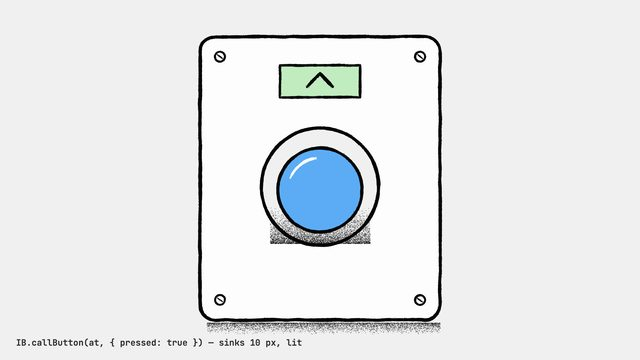
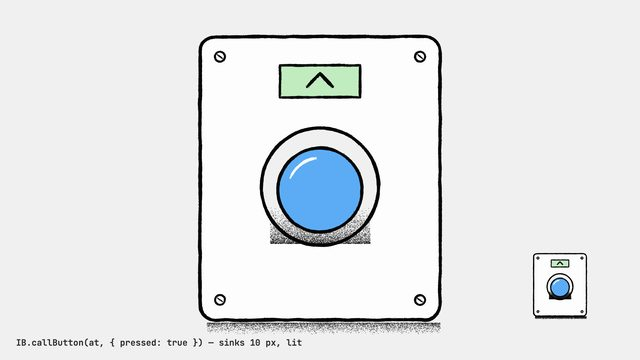
feat: 호출 버튼을 와이드 크기로 줄여 쓰는 opts.s (#54)
조립 시험(#50)에서 모자랐던 부품이다. 초인종 장면은 인서트 크기 버튼을 컨텍스트째 0.22배로 줄여 써서, 선이 9 px에서 2 px로 가늘어졌다.
- IB.callButton이 opts.s를 받는다. at을 중심으로 줄이고, 선은 같이 가늘어지되 인서트 선의 0.35배(와이드 샷의 3 px) 아래로는 내려가지 않는다.
- s = 1(기본)이면 그림이 그대로다. variation/hall-whip-button이 same_frames로 1/1 같은 프레임이다.
- vignette/parcel-rings-doorbell이 opts.s를 쓴다. 버튼 선이 문틀과 같은 3 px가 된다.
- 견본 props/home-button에 줄인 버튼을 함께 보인다.

확인: 초인종 4.6 s 확대, 견본 렌더, check_pure 2/2.

Claude-Session: https://claude.ai/code/session_01SxpfC2T1LyEk5ytvqY9P1D

Changed region(s): [[0.8125, 0.7028, 0.9375, 0.8861]]

diff --git a/IBM/kit/props/home.js b/IBM/kit/props/home.js
@@ -137,23 +137,23 @@
     ctx.restore();
   };
 
-  /* callButton(ctx, at, state, opts) — a lift call button at insert size, filling the frame: a plate with rounded corners and four screws, an indicator arrow above, and a round button 352 px across whose cap sinks 10 px when pressed. `at` is the button's centre. state.pressed sinks the cap; state.lit turns the cap blue and the indicator mint (they light together). Lines 7-9 px, as an insert's are (variation/hall-whip-button). */
+  /* callButton(ctx, at, state, opts) — a lift call button at insert size, filling the frame: a plate with rounded corners and four screws, an indicator arrow above, and a round button 352 px across whose cap sinks 10 px when pressed. `at` is the button's centre. state.pressed sinks the cap; state.lit turns the cap blue and the indicator mint (they light together). Lines 7-9 px, as an insert's are (variation/hall-whip-button). opts.s scales it about `at` for a wider shot (0.22: a doorbell beside a door, vignette/parcel-rings-doorbell); its lines then thin with it but never below 0.35 of the insert's, so they stay a wide shot's 3 px. */
   const BUTTON_AT = [860, 560];
   IB.callButton = (ctx, at, st = {}, o = {}) => {
-    const { pressed = false, lit = pressed } = st;
-    ctx.save(); ctx.translate(at[0] - BUTTON_AT[0], at[1] - BUTTON_AT[1]);
+    const { pressed = false, lit = pressed } = st, { s: S = 1 } = o, k = Math.max(1, 0.35 / S);   // scaled down, the lines thin with it but not below 0.35 of the insert's (a wide shot's weight)
+    ctx.save(); ctx.translate(at[0], at[1]); ctx.scale(S, S); ctx.translate(-BUTTON_AT[0], -BUTTON_AT[1]);
     IB.shade(ctx, 520, 968, 700, 34, { from: 'top', seed: 51, alpha: 0.5 });
-    IB.ink(ctx, [[1176, 154, 0], [544, 154, 1], [544, 916, 2], [1176, 916, 3]].flatMap(([x, y, q]) => IB.ellipse(x, y, 44, 44, 5, -q * Math.PI / 2, -(q + 1) * Math.PI / 2)), { closed: true, smooth: false, fill: C.paper, w: 9, seed: 500, wob: 1.2 });   // a plate with rounded corners
-    for (const [x, y] of [[560, 170], [1160, 170], [560, 900], [1160, 900]]) { IB.oval(ctx, x, y, 15, 15, { w: 5, seed: 510 + x + y, n: 9 }); IB.seg(ctx, x - 8, y - 6, x + 8, y + 6, { w: 4, seed: 511 + x + y }); }
+    IB.ink(ctx, [[1176, 154, 0], [544, 154, 1], [544, 916, 2], [1176, 916, 3]].flatMap(([x, y, q]) => IB.ellipse(x, y, 44, 44, 5, -q * Math.PI / 2, -(q + 1) * Math.PI / 2)), { closed: true, smooth: false, fill: C.paper, w: 9 * k, seed: 500, wob: 1.2 });   // a plate with rounded corners
+    for (const [x, y] of [[560, 170], [1160, 170], [560, 900], [1160, 900]]) { IB.oval(ctx, x, y, 15, 15, { w: 5 * k, seed: 510 + x + y, n: 9 }); IB.seg(ctx, x - 8, y - 6, x + 8, y + 6, { w: 4 * k, seed: 511 + x + y }); }
     // the indicator above the button: an arrow that lights with it
-    IB.box(ctx, 740, 196, 240, 96, { fill: lit ? C.mint : C.bg, w: 7, seed: 520 });
-    IB.ink(ctx, [[820, 262], [860, 220], [900, 262]], { w: 9, smooth: false, seed: 521 });
+    IB.box(ctx, 740, 196, 240, 96, { fill: lit ? C.mint : C.bg, w: 7 * k, seed: 520 });
+    IB.ink(ctx, [[820, 262], [860, 220], [900, 262]], { w: 9 * k, smooth: false, seed: 521 });
     // the button: a collar, and a cap that sinks when pressed
-    IB.oval(ctx, 860, 560, 176, 176, { fill: C.bg, w: 9, seed: 530, n: 22 });
+    IB.oval(ctx, 860, 560, 176, 176, { fill: C.bg, w: 9 * k, seed: 530, n: 22 });
     IB.shade(ctx, 860 - 150, 560 + 60, 300, 110, { from: 'bottom', seed: 53, alpha: 0.5 });
     const sink = pressed ? 10 : 0;
-    IB.oval(ctx, 860, 560 + sink, 132 - sink * 0.6, 132 - sink * 0.6, { fill: lit ? C.blue : C.paper, w: 8, seed: 531, n: 20 });
-    IB.ink(ctx, IB.ellipse(860, 560 + sink, 96, 96, 7, 3.5, 4.6), { w: 7, color: lit ? C.paper : '#d9d9d9', seed: 532 });
+    IB.oval(ctx, 860, 560 + sink, 132 - sink * 0.6, 132 - sink * 0.6, { fill: lit ? C.blue : C.paper, w: 8 * k, seed: 531, n: 20 });
+    IB.ink(ctx, IB.ellipse(860, 560 + sink, 96, 96, 7, 3.5, 4.6), { w: 7 * k, color: lit ? C.paper : '#d9d9d9', seed: 532 });
     ctx.restore();
   };
 })(window);

diff --git a/IBM/scenes/vignette/parcel-rings-doorbell.html b/IBM/scenes/vignette/parcel-rings-doorbell.html
@@ -12,7 +12,7 @@
 <script src="../../kit/props/nature.js"></script>
 <script src="../../kit/props/home.js"></script>
 <script>
-/* 택배 상자가 다리로 걸어 와 문 옆에 서서 초인종을 올려다보고, 뛰어올라 보지만 한 뼘이 모자라 쿵 떨어지고, 발을 동동 구른 뒤 더 깊이 웅크렸다 뛰어 머리(테이프 붙은 윗면)로 버튼을 누른다. 버튼에 불이 들어오면 "배달 왔어요!" 하고 기다린다. 원본에 없는 창작 장면이자 부품 시트의 조립 시험(계획 5단계)으로, 다섯 장면에서 온 부품만으로 지었다: 걷고 뛰는 상자(metaphor/parcels-board-conveyor), 문·액자·화분(acting/walk-cycle-bag), 호출 버튼(variation/hall-whip-button, 인서트 크기를 0.22배로 줄여 벽에 붙임), 쿵(acting/lift-heavy-box), 말풍선. 전달하는 생각: 한 번 실패한 뒤의 준비는 더 깊다.
+/* 택배 상자가 다리로 걸어 와 문 옆에 서서 초인종을 올려다보고, 뛰어올라 보지만 한 뼘이 모자라 쿵 떨어지고, 발을 동동 구른 뒤 더 깊이 웅크렸다 뛰어 머리(테이프 붙은 윗면)로 버튼을 누른다. 버튼에 불이 들어오면 "배달 왔어요!" 하고 기다린다. 원본에 없는 창작 장면이자 부품 시트의 조립 시험(계획 5단계)으로, 다섯 장면에서 온 부품만으로 지었다: 걷고 뛰는 상자(metaphor/parcels-board-conveyor), 문·액자·화분(acting/walk-cycle-bag), 호출 버튼(variation/hall-whip-button, opts.s 0.22로 줄여 벽에 붙임: 선은 와이드 굵기 3 px를 지킨다), 쿵(acting/lift-heavy-box), 말풍선. 전달하는 생각: 한 번 실패한 뒤의 준비는 더 깊다.
    Motion notes: one locked shot, 7 s, all on twos except the last second's foot tap on threes. The parcel (170 x 140, legs 74 px) walks in at 190 px/s, swapping its two foot sets and tilting +-0.035 every 6 frames, the parcels' own walk, the planted foot staying put in stage x while the body walks over it; it stops at 2.5 s rocking back 0.05 rad for one drawing, and at 2.67 s tips its top back 0.08 rad for one drawing to look up at the button. Hop 1 at 3.0 s: one crouched drawing (16 px down, tilted back 0.09), two drawings in the air with the legs hanging (40 then 60 px up: its top stops 15 px short of the button's plate), a landing crouch with a thud on the floor for 2 drawings, standing. Then three stamping drawings (tilt +-0.04, one foot up). Hop 2 at 4.5 s: a deeper crouch held 2 drawings (24 px, 0.12 rad), up 125 px in one drawing so the middle of its top (the tape) presses the cap: the button sinks and lights on that drawing with a burst for 2 drawings, down through 70 px, landing crouch, thud, standing. Bubble at 5.0 s. From 6.0 s the only thing that moves is one foot tapping on threes. The button keeps its light. Three colours: the yellow door, the lit button's blue and the indicator's mint; the parcel is paper white. */
 const FLOOR = 900, LEG = 74, Y0 = FLOOR - 12 - LEG, W = 170, H = 140, X0 = 980, XS = 1450, BTN = [1450, 520], BS = 0.22;
 const WALK_END = (XS - X0) / 190;   // 2.47 s
@@ -53,7 +53,7 @@ MG.scene({
     IB.pictureFrame(ctx, [560, 360], { w: 210, h: 160, seed: 700 });
     IB.door(ctx, [1060, FLOOR]);
     IB.pottedPlant(ctx, [1760, FLOOR], IB.PLANTS.bushy);
-    ctx.save(); ctx.translate(BTN[0], BTN[1]); ctx.scale(BS, BS); IB.callButton(ctx, [0, 0], { pressed: pressed(tt) }); ctx.restore();
+    IB.callButton(ctx, BTN, { pressed: pressed(tt) }, { s: BS });
     const b = IB.drawn(tt, 108 / 24);
     if (b >= 0 && b < 2) IB.burst(ctx, [BTN[0], BTN[1] - 30], { n: 5, a0: -2.9, da: 0.6, r0: 70 + b * 16, r1: 110 + b * 12, w: 3, seed: 560 + b * 7 });
     // the parcel, its smear and the thuds of its landings

diff --git a/IBM/parts/props/home-button.html b/IBM/parts/props/home-button.html
@@ -10,7 +10,7 @@
 <script src="../../kit/props/home.js"></script>
 <script src="../sample.js"></script>
 <script>
-/* 소품 견본: 인서트 크기로 화면을 채운 승강기 호출 버튼 IB.callButton. 둥근 모서리 판에 나사 넷, 위에 표시등 화살표, 지름 352 px의 둥근 버튼이다. 누르면(state.pressed) 버튼 머리가 10 px 가라앉고, 켜지면(state.lit, 기본은 pressed와 같다) 머리가 파랑, 표시등이 민트로 함께 바뀐다. 인서트라 선이 7–9 px로 굵다. variation/hall-whip-button에서 휘핑 뒤 두 번째 샷 전체가 이 버튼이고, 누름은 사이 그림 없이 한 장에 바뀐다. 화면 전체를 쓰는 부품이라 칸 없이 전면으로 보인다. */
+/* 소품 견본: 인서트 크기로 화면을 채운 승강기 호출 버튼 IB.callButton. 둥근 모서리 판에 나사 넷, 위에 표시등 화살표, 지름 352 px의 둥근 버튼이다. 누르면(state.pressed) 버튼 머리가 10 px 가라앉고, 켜지면(state.lit, 기본은 pressed와 같다) 머리가 파랑, 표시등이 민트로 함께 바뀐다. 인서트라 선이 7–9 px로 굵다. variation/hall-whip-button에서 휘핑 뒤 두 번째 샷 전체가 이 버튼이고, 누름은 사이 그림 없이 한 장에 바뀐다. 화면 전체를 쓰는 부품이라 칸 없이 전면으로 보인다. 오른쪽 아래의 작은 것은 같은 부품을 opts.s 0.22로 줄인 와이드 크기이고, 선은 0.35배 아래로 가늘어지지 않아 3 px를 지킨다(vignette/parcel-rings-doorbell). */
 MG.scene({
   title: 'props / home-button',
   duration: 3, ref: null, fps: 24, loop: true,
@@ -19,6 +19,7 @@ MG.scene({
     IB.bg(ctx);
     const pressed = IB.twos(t) >= 1.5;   // on in one drawing, as the scene presses it
     IB.callButton(ctx, [960, 560], { pressed });   // centred on the page; the scene has it at [860, 560], beside the finger that presses it
+    IB.callButton(ctx, [1680, 860], { pressed }, { s: 0.22 });   // the same part at a wide shot's size (opts.s), lines kept at 3 px
     SAMPLE.caption(ctx, pressed ? 'IB.callButton(at, { pressed: true }) — sinks 10 px, lit' : 'IB.callButton(at, { pressed: false })');
   },
 });
